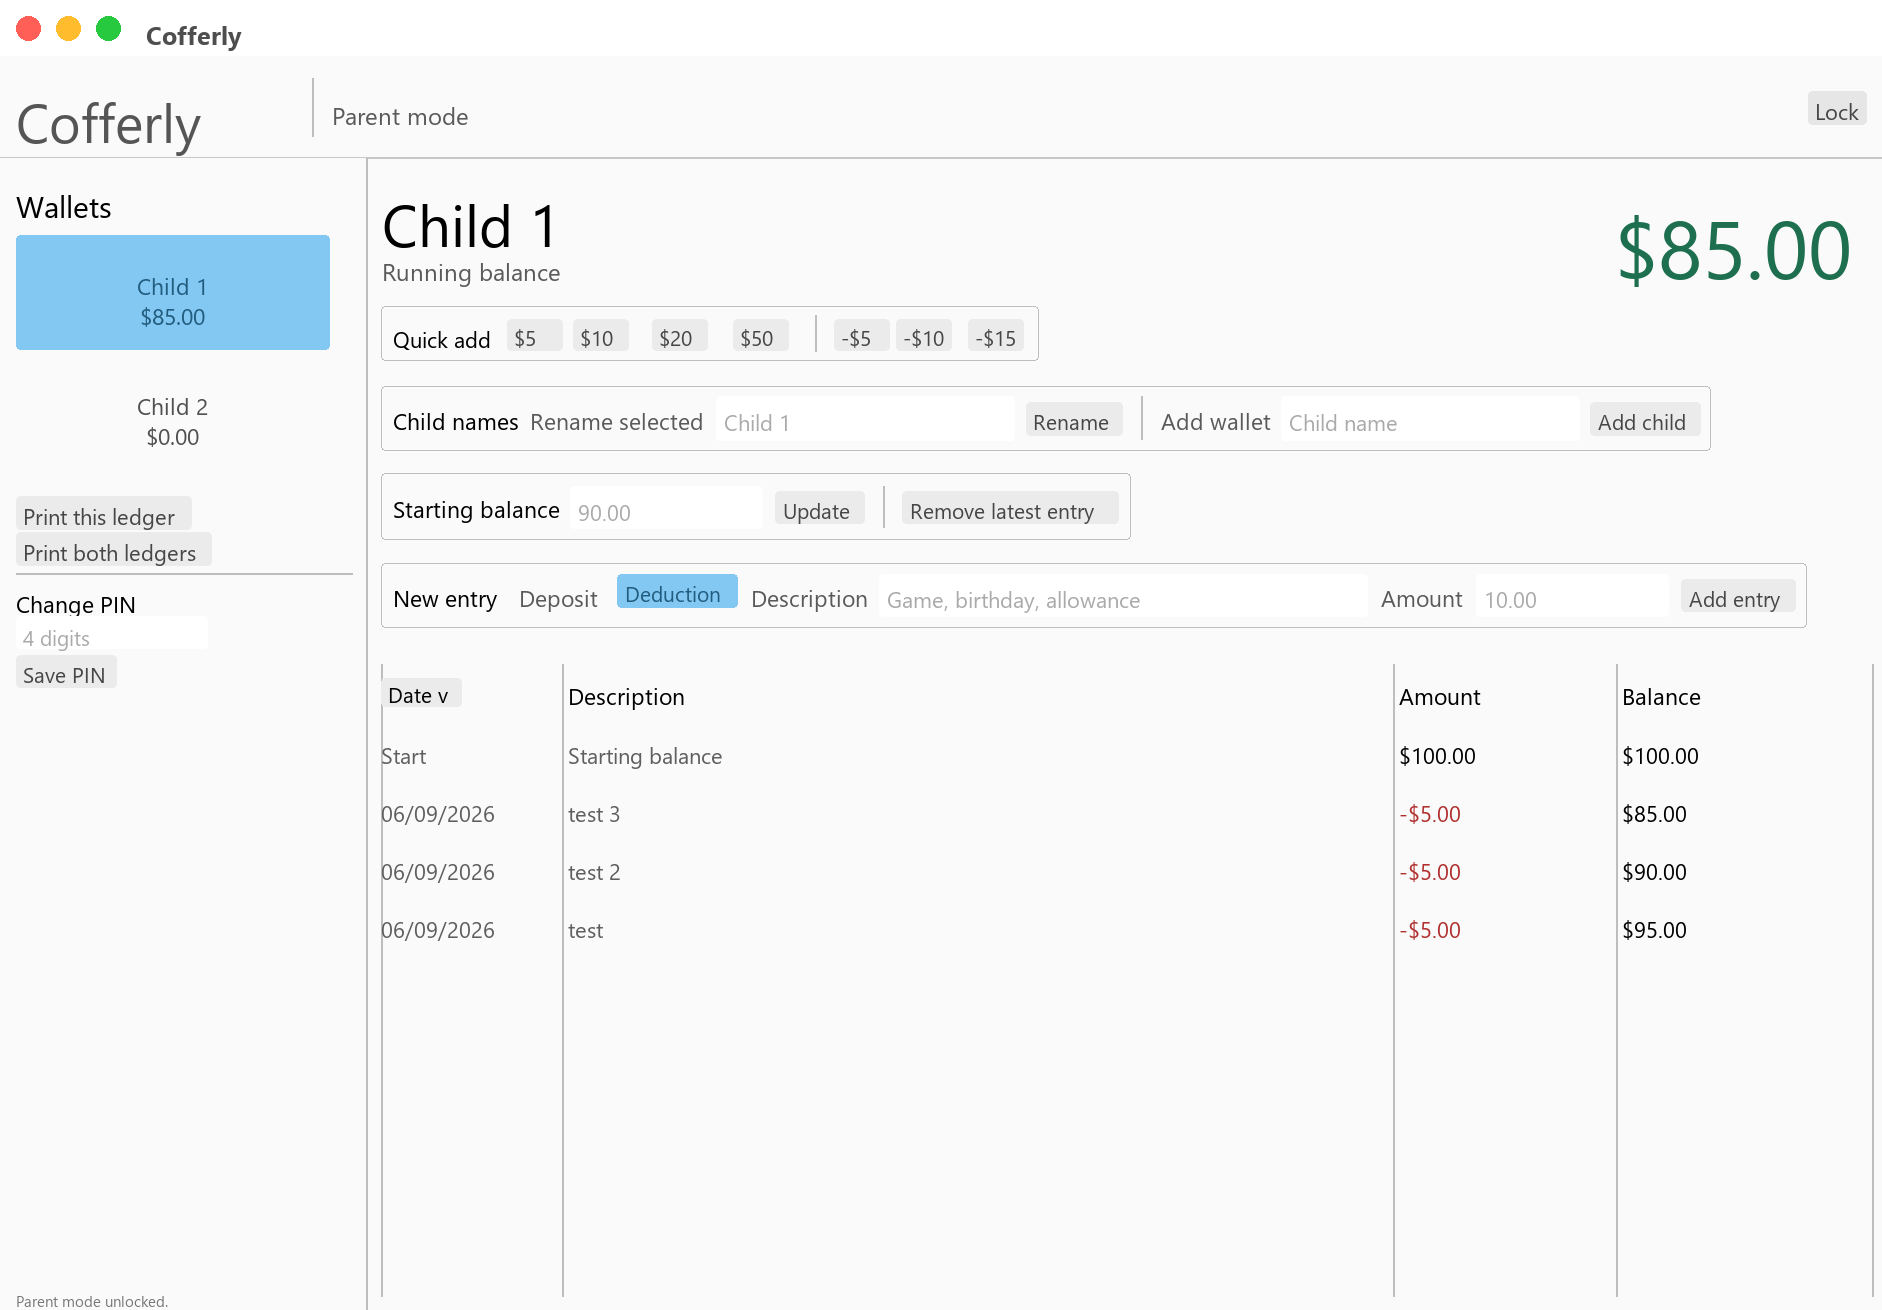
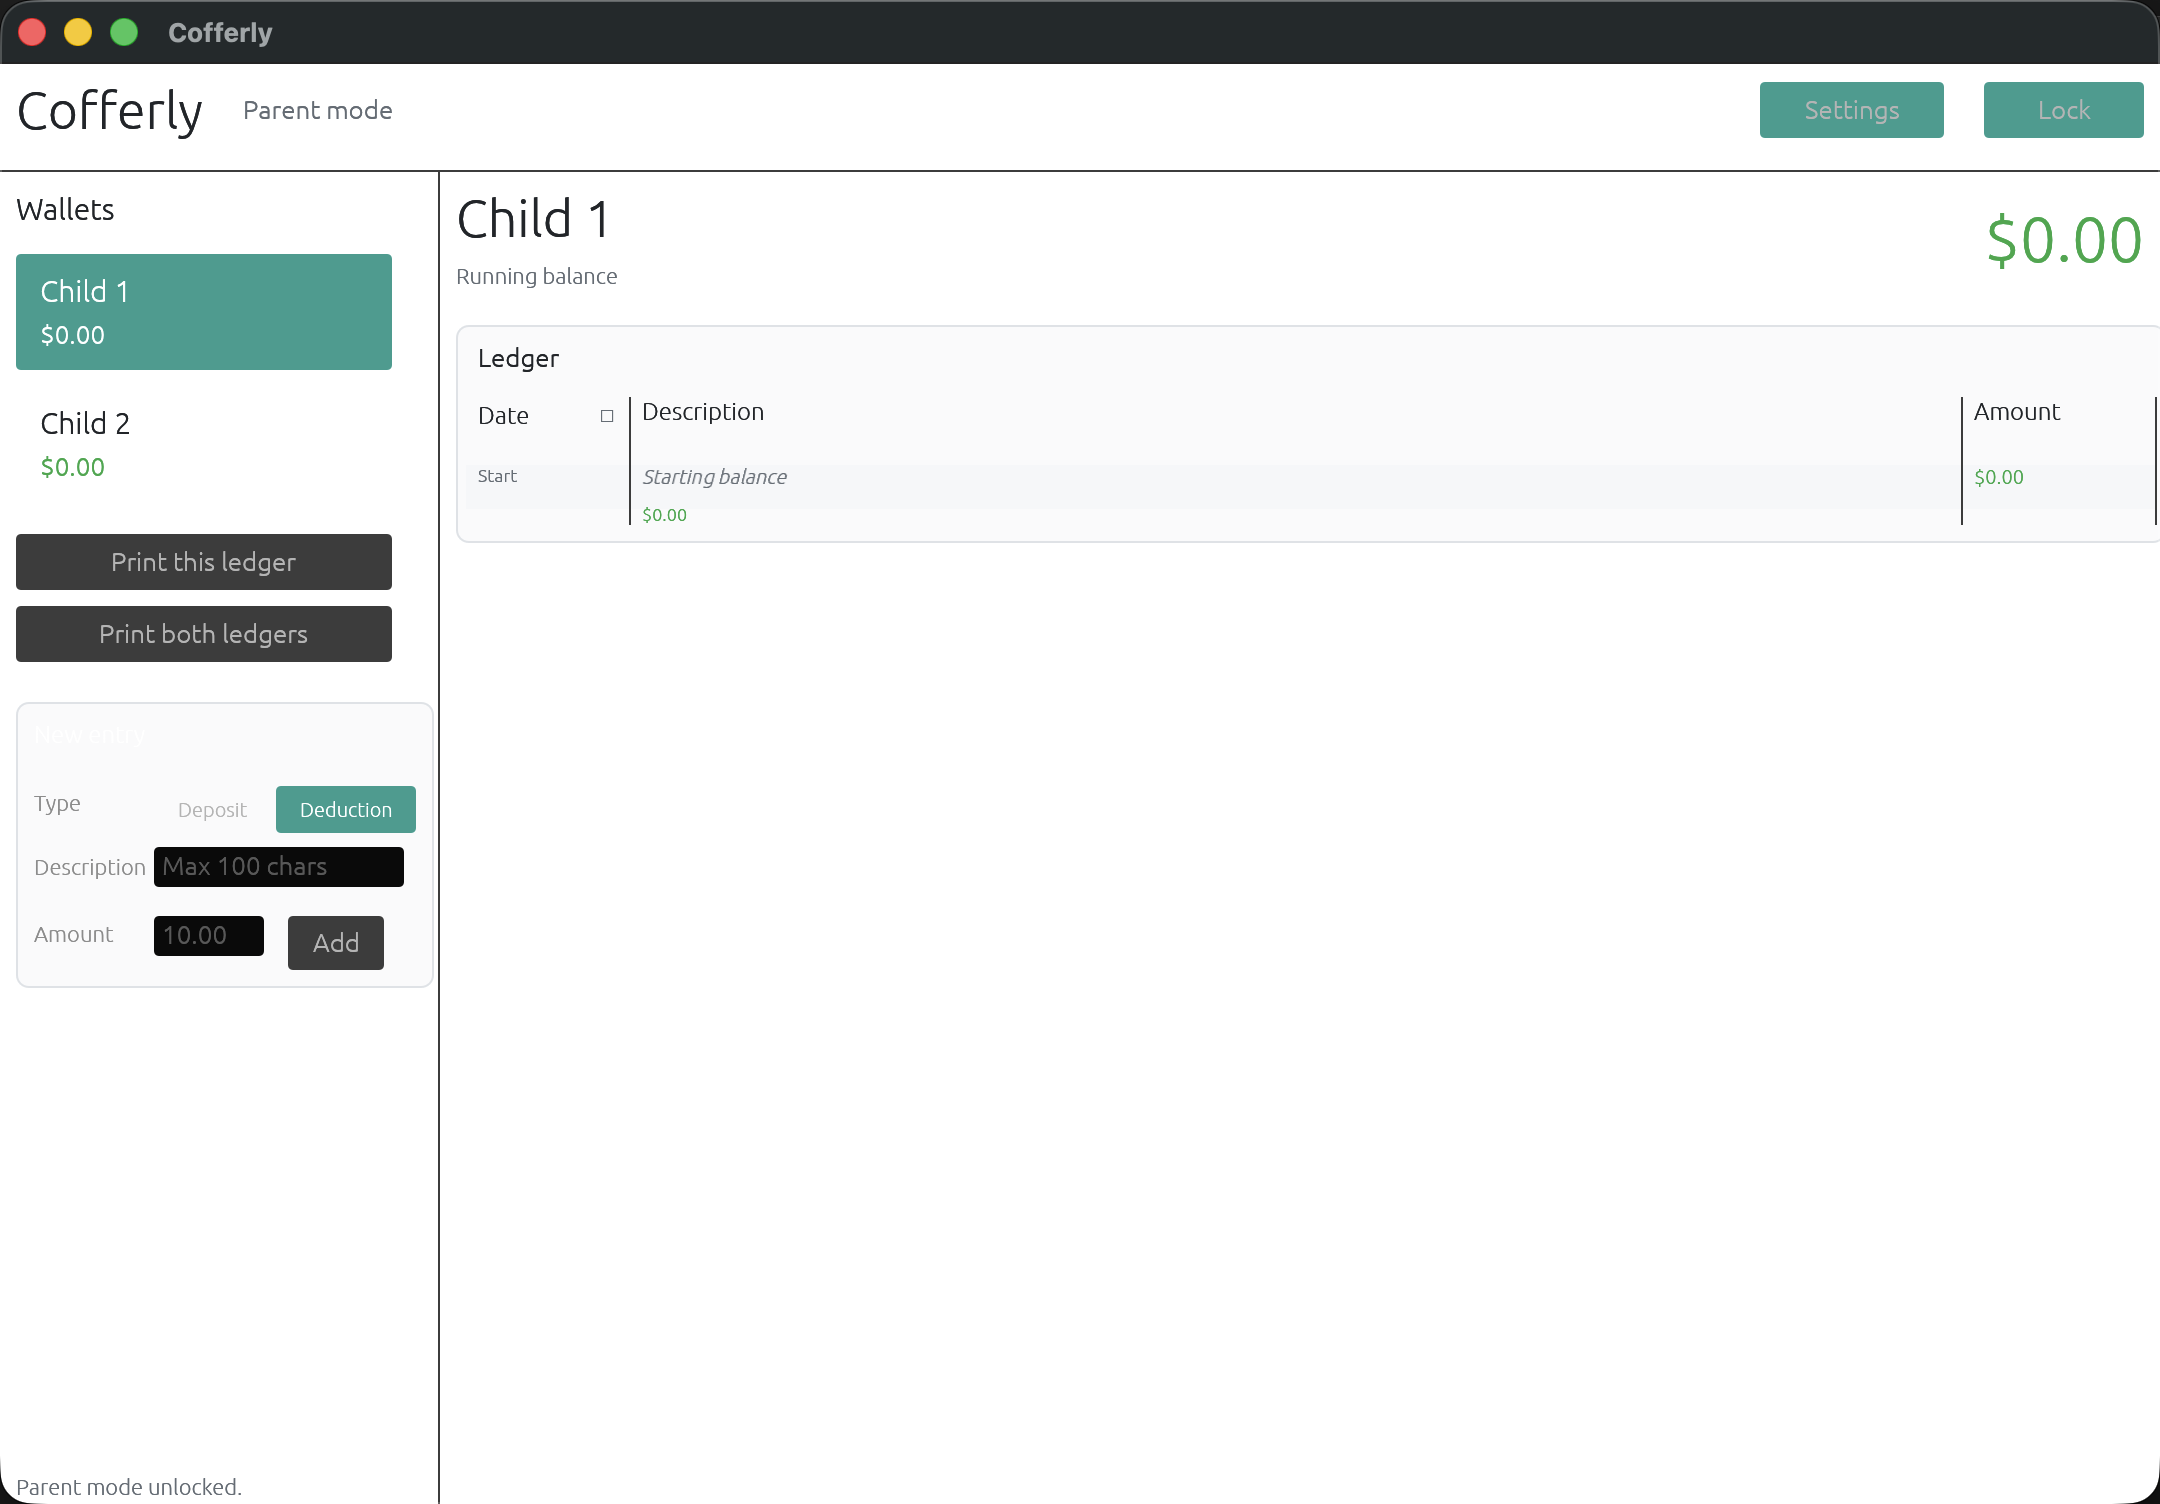
Update documentation and README screenshots (#38)

diff --git a/README.md b/README.md
@@ -2,11 +2,15 @@
 
 Cofferly is a small Windows-friendly Rust desktop app for tracking money held for kids.
 
+Parent PIN screen:
+
 ![Cofferly parent PIN screen](docs/screenshots/cofferly-pin-screen.png)
+
+Unlocked wallet ledger:
 
 ![Cofferly child wallet ledger](docs/screenshots/cofferly-wallet-screen.png)
 
-It starts with two neutral child wallets. Each wallet keeps a local ledger of deposits and deductions, similar to a handwritten allowance sheet:
+Cofferly starts with two neutral child wallets. Each wallet keeps a local ledger of deposits and deductions, similar to a handwritten allowance sheet:
 
 - Starting balance
 - Money added
@@ -17,6 +21,7 @@ It starts with two neutral child wallets. Each wallet keeps a local ledger of de
 - Parent PIN unlock
 - Printable ledgers
 - Custom child wallet names
+- Local encrypted data file
 
 ## Download
 
@@ -36,7 +41,7 @@ The zip will be created in `dist/`.
 
 ## Parent PIN
 
-Cofferly opens to a parent PIN screen so kids cannot add or remove entries without a parent unlocking the app first.
+Cofferly opens to a parent PIN screen so kids cannot add, remove, rename, or print entries without a parent unlocking the app first.
 
 The first-run PIN is:
 
@@ -44,7 +49,7 @@ The first-run PIN is:
 1234
 ```
 
-After unlocking, use **Change PIN** in the left sidebar to choose a different 4 digit PIN.
+After unlocking, open **Settings** to choose a different 4-digit PIN.
 
 The PIN is used both to unlock the interface and to derive the key for encrypting the data file on disk. It is a simple family-use protection (4 digits), not high-security encryption.
 
@@ -52,13 +57,15 @@ The PIN is used both to unlock the interface and to derive the key for encryptin
 
 Cofferly starts with `Child 1` and `Child 2` so the public app does not include anyone's real names.
 
-After unlocking parent mode, use **Child names** to rename the selected wallet or add another child wallet.
+After unlocking parent mode, open **Settings** to rename the selected wallet, update its starting balance, add another child wallet, or delete a wallet. Wallet deletion uses a confirm/cancel step and keeps at least one wallet available.
+
+Use **Remove latest entry** in Settings to undo the most recent ledger entry for the selected wallet. The app offers a short undo window before the next change.
 
 ## Printing
 
 Use **Print this ledger** to print the selected child's ledger, or **Print both ledgers** to print both child wallets together.
 
-Cofferly creates a local printable HTML file and opens it in your browser with the print dialog ready.
+Cofferly creates a local printable HTML file and opens it in your browser.
 
 ## Windows Installer
 
@@ -92,6 +99,8 @@ Data files are encrypted at rest using the parent PIN (Argon2id key derivation +
 
 Old plain JSON files (including imports from Atlas Wallet / TallyNest / AirWallet) are automatically migrated to the encrypted format the first time you successfully unlock with the parent PIN.
 
+Derived keys and plaintext serialization/decryption buffers are zeroized when dropped. The app's goal is family-use privacy and tamper resistance, not protection against a determined attacker who has the data file and can brute-force all 10,000 PINs offline.
+
 If `cargo` is not on PATH on Windows, add Rust's Cargo folder to PATH:
 
 ```powershell
@@ -121,4 +130,3 @@ Repository protection recommendations are documented in [docs/GITHUB_SETTINGS.md
 ## License
 
 MIT
-

diff --git a/docs/RELEASE.md b/docs/RELEASE.md
@@ -7,6 +7,7 @@ Use this checklist when preparing a Cofferly release.
 ```powershell
 cargo fmt -- --check
 cargo test
+cargo clippy --all-targets --all-features -- -D warnings
 cargo build --release
 .\scripts\package-windows.ps1 -Version 0.1.0
 ```
@@ -27,10 +28,11 @@ The installer output is written to `dist/`.
 ## GitHub Release
 
 1. Update `Cargo.toml`, `README.md`, and this checklist if the version changes.
-2. Commit the release.
-3. Tag it, for example `v0.1.0`.
-4. Push the tag to GitHub.
-5. Attach the generated portable zip and installer to the GitHub Release.
+2. Refresh the README screenshots in `docs/screenshots/` if the UI changed.
+3. Commit the release.
+4. Tag it, for example `v0.1.0`.
+5. Push the tag to GitHub.
+6. Attach the generated portable zip and installer to the GitHub Release.
 
 ## Repository Controls
 
@@ -44,10 +46,15 @@ Before publishing, open Cofferly and verify:
 - The parent PIN screen appears first.
 - PIN `1234` unlocks a fresh install.
 - Both default child wallets are visible.
+- Settings opens from the top bar.
 - The selected wallet can be renamed.
+- The selected wallet starting balance can be changed.
 - A new child wallet can be added.
+- Wallet deletion asks for confirmation and keeps at least one wallet.
 - Adding a deposit changes the running balance.
 - Adding a deduction changes the running balance.
+- Remove latest entry offers undo.
+- Changing the parent PIN saves and unlocks with the new PIN.
+- A fresh plain JSON legacy file migrates to encrypted storage after unlock.
 - Print this ledger opens a printable browser page.
 - Print both ledgers opens both ledgers in one printable page.
-

diff --git a/CHANGELOG.md b/CHANGELOG.md
@@ -3,6 +3,9 @@
 ## Unreleased
 
 - Add encryption for the local data file using Argon2id key derivation + XChaCha20-Poly1305 authenticated encryption. Data is encrypted at rest with the parent PIN to prevent casual tampering. Old plain JSON files (including legacy imports) are automatically migrated on first successful unlock.
+- Adds a Settings window for wallet management, parent PIN updates, starting balance edits, wallet deletion confirmation, and remove-entry undo.
+- Splits rendering code into a dedicated views module and zeroizes derived keys plus plaintext serialization/decryption buffers when they are dropped.
+- Refreshes README screenshots and updates documentation for the current Cofferly UI and security model.
 - Renames the app to Cofferly after product-name collisions with previous AirWallet and Atlas Wallet names.
 - Preserves automatic legacy data import for previous Atlas Wallet, TallyNest, and original AirWallet installs.
 - Updates all references in code, docs, build scripts, installer, tests, screenshots, and GitHub workflows.